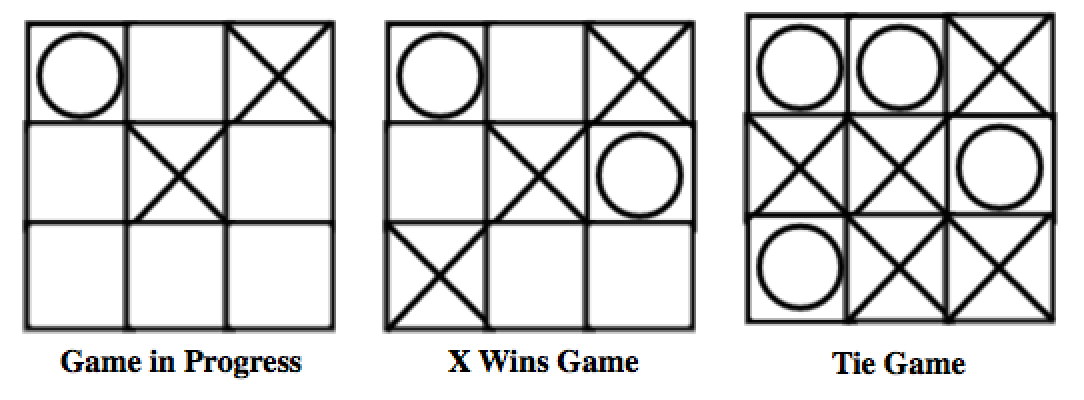
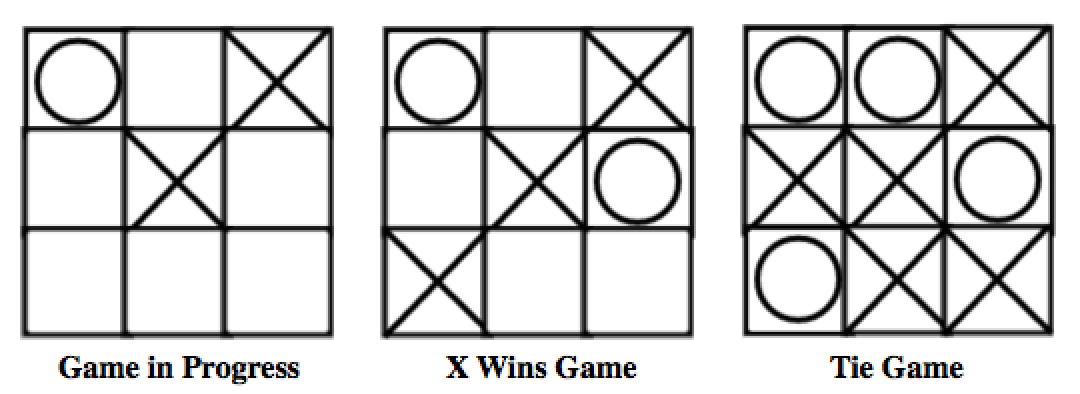
TTT board image revision

diff --git a/cur/programming/2-complexity/4-abstraction/4-building-tic-tac-toe.html b/cur/programming/2-complexity/4-abstraction/4-building-tic-tac-toe.html
@@ -27,7 +27,7 @@
         <div class="todo">There is a lot on this page and it ends with an orange wall of text... I suggest we reread with an eye for trimming back. --MF, 5/16/18</div>
 		
         <div class="learn">
-            <img class="indent" src="/bjc-r/img/2-complexity/TTT1_img/Three States of TTT.png" width="600"  alt="Three states of Tic Tac Toe: in progress, win, tie" title="Three states of Tic Tac Toe: in progress, win, tie"/><br />
+            <img class="indent" src="/bjc-r/img/2-complexity/TTT1_img/Three States of TTT.png" width="550"  alt="Three states of Tic Tac Toe: in progress, win, tie" title="Three states of Tic Tac Toe: in progress, win, tie"/><br />
             <p><strong>In this <em>yearlong</em> project,</strong> you will  develop a program that plays Tic-Tac-Toe as well as you do.</p>
             <p><strong>On this first page,</strong> you display a Tic-Tac-Toe board and let two human players enter moves.</p>
         </div>
